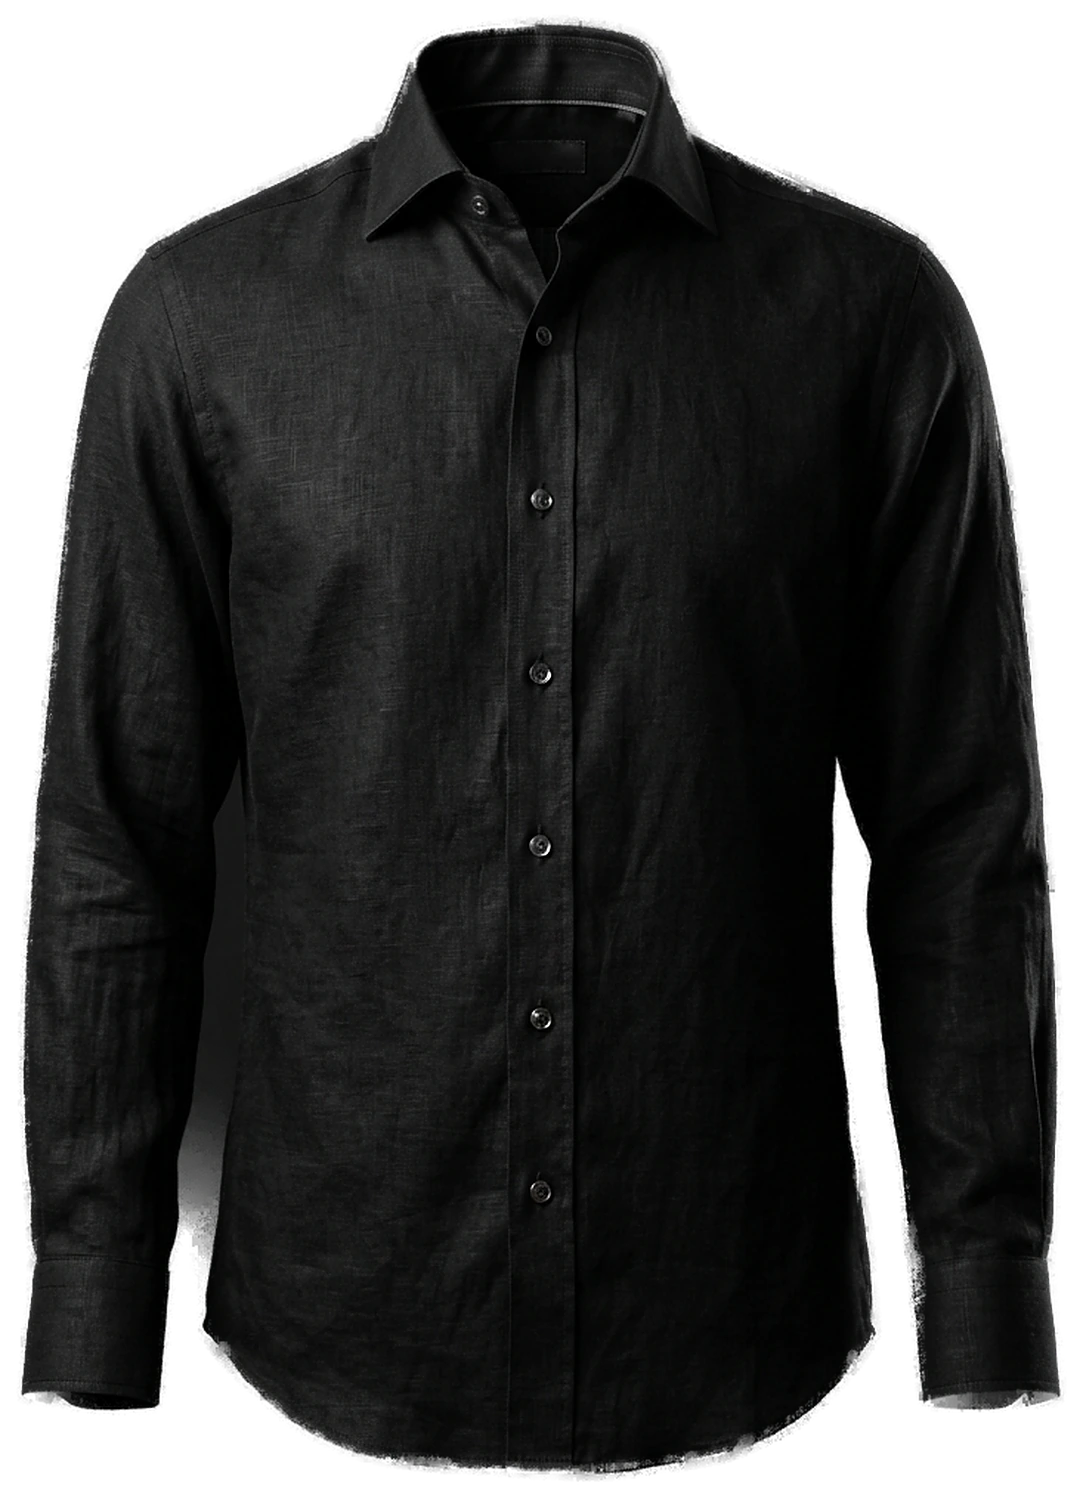
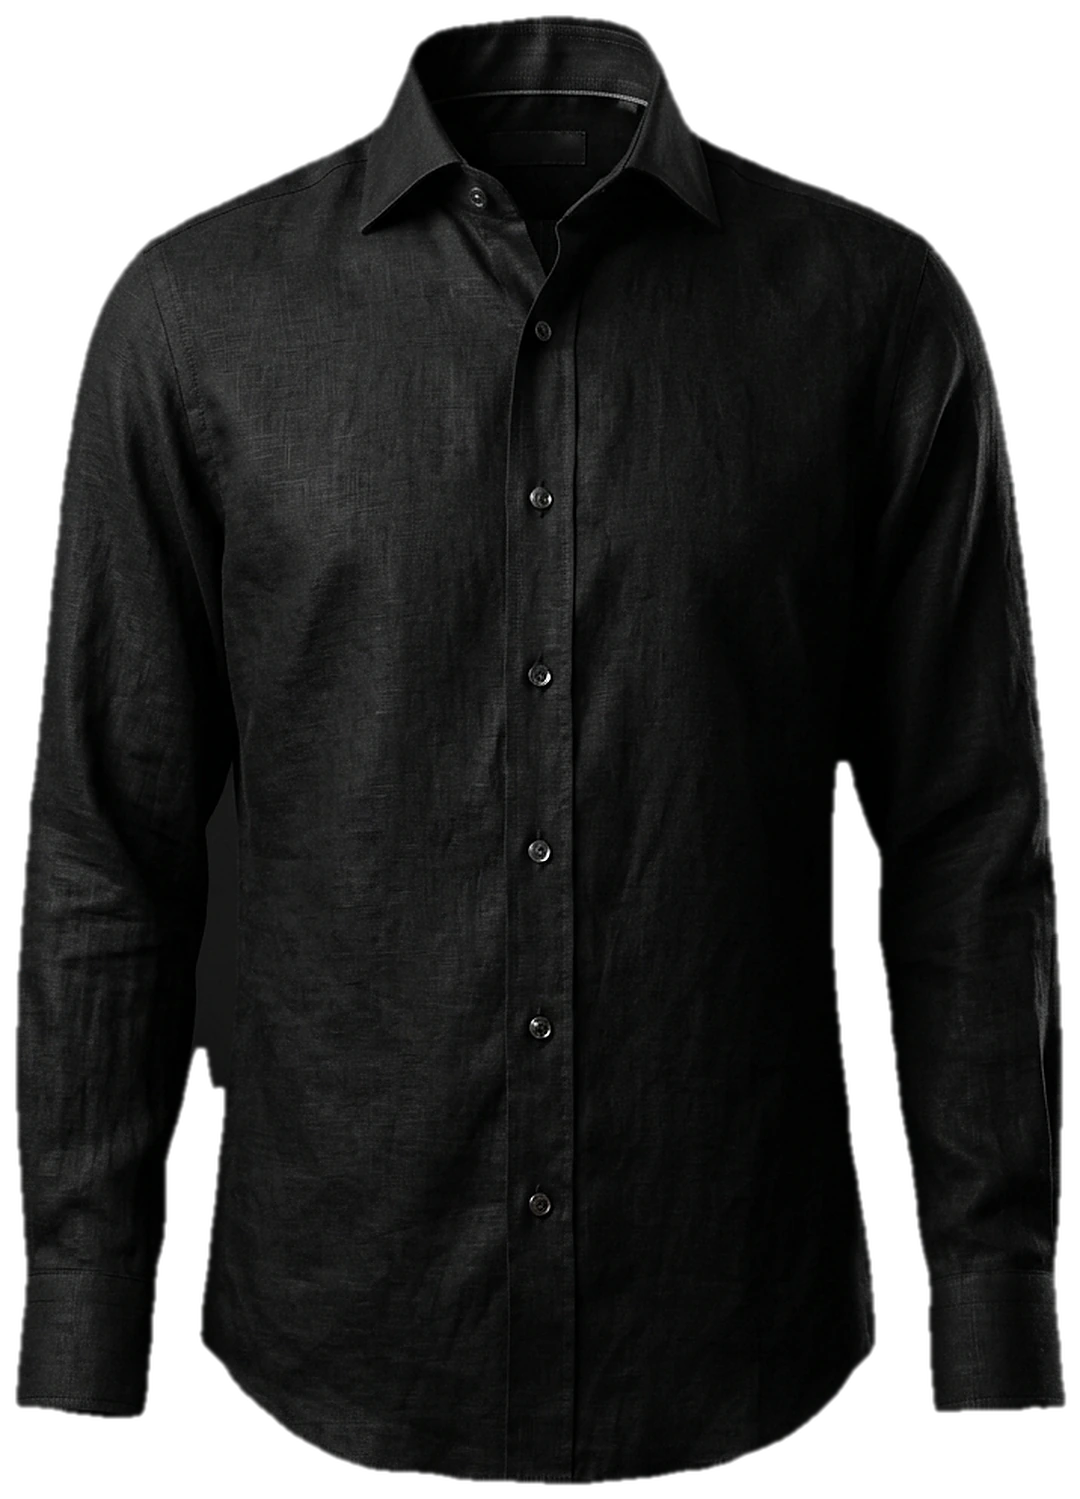
feat(v33): badge clearance in /coleccion, above-the-fold mobile PDP, adaptive Liquid Glass controls, halo-free shirt alpha, and full-bleed rounded-3xl editorial frames for collars & 3/4 cuffs

diff --git a/src/components/StudioShirtStage.tsx b/src/components/StudioShirtStage.tsx
@@ -195,7 +195,7 @@ export function StudioShirtStage({
   const show3DViewer = is3DActive && !webglFailed;
 
   return (
-    <div className="relative flex h-[360px] w-full items-center justify-center overflow-hidden rounded-2xl bg-transparent sm:h-[400px] lg:h-full">
+    <div className="relative flex h-[360px] w-full items-center justify-center bg-transparent sm:h-[400px] lg:h-full">
       {/* Discreet corner 3D toggle button for Step 1 & Step 4 */}
       {(step === 1 || step === 4) && !webglFailed && (
         <button
@@ -256,7 +256,7 @@ export function StudioShirtStage({
           </motion.div>
         )}
 
-        {/* STEP 2: Full-bleed Macro Collar Studio Photograph with Horizontal Swipe & Side Arrows */}
+        {/* STEP 2: Full-bleed Studio Editorial Collar Frame (rounded-3xl, object-cover, adaptive Liquid Glass controls) */}
         {step === 2 && (
           <motion.div
             key="stage-collar-macro"
@@ -274,23 +274,23 @@ export function StudioShirtStage({
                 handleCollarSwipe(-1);
               }
             }}
-            className="relative flex h-full w-full cursor-grab touch-pan-y items-center justify-center overflow-hidden rounded-2xl active:cursor-grabbing"
+            className="relative flex h-full w-full cursor-grab touch-pan-y items-center justify-center overflow-hidden rounded-3xl shadow-[0_18px_48px_rgba(17,17,19,0.08)] active:cursor-grabbing dark:shadow-[0_24px_60px_rgba(0,0,0,0.45)]"
           >
             <AnimatePresence mode="sync">
               <motion.img
                 key={collar}
                 src={collarMeta.macroImage}
-                alt={`Macro real Cuello ${collar}`}
+                alt={`Macro editorial Cuello ${collar}`}
                 draggable={false}
-                initial={isMotionPaused ? false : { opacity: 0, scale: 0.98 }}
+                initial={isMotionPaused ? false : { opacity: 0, scale: 1.03 }}
                 animate={{ opacity: 1, scale: 1 }}
                 exit={isMotionPaused ? undefined : { opacity: 0 }}
-                transition={{ duration: 0.3, ease: [0.22, 1, 0.36, 1] }}
-                className="pointer-events-none absolute inset-0 h-full w-full object-contain px-2 pt-2 pb-12 drop-shadow-[0_18px_28px_rgba(17,17,19,0.2)] select-none dark:drop-shadow-[0_22px_34px_rgba(0,0,0,0.62)]"
+                transition={{ duration: 0.32, ease: [0.22, 1, 0.36, 1] }}
+                className="pointer-events-none absolute inset-0 h-full w-full object-cover object-center select-none"
               />
             </AnimatePresence>
 
-            {/* Discreet Previous / Next Collar Arrows (Dark Frosted for crisp contrast in Light & Dark modes) */}
+            {/* Discreet Previous / Next Collar Arrows (Adaptive Liquid Glass) */}
             {onCollarChange && (
               <>
                 <button
@@ -298,7 +298,7 @@ export function StudioShirtStage({
                   onPointerDown={(e) => e.stopPropagation()}
                   onClick={() => handleCollarSwipe(-1)}
                   aria-label="Cuello anterior"
-                  className="cursor-pointer absolute top-1/2 left-2.5 z-20 inline-flex h-11 w-11 -translate-y-1/2 items-center justify-center rounded-full border border-white/15 bg-[#111113]/85 text-white shadow-lg backdrop-blur-md transition-transform hover:scale-105 active:scale-95 sm:left-3 sm:h-10 sm:w-10"
+                  className="cursor-pointer absolute top-1/2 left-2.5 z-20 inline-flex h-11 w-11 -translate-y-1/2 items-center justify-center rounded-full border border-black/10 bg-white/75 text-[#111113] shadow-sm backdrop-blur-md transition-transform hover:scale-105 active:scale-95 sm:left-3 sm:h-10 sm:w-10 dark:border-white/15 dark:bg-[#111113]/75 dark:text-white"
                 >
                   <ChevronLeft className="h-5 w-5" aria-hidden="true" />
                 </button>
@@ -307,28 +307,31 @@ export function StudioShirtStage({
                   onPointerDown={(e) => e.stopPropagation()}
                   onClick={() => handleCollarSwipe(1)}
                   aria-label="Siguiente cuello"
-                  className="cursor-pointer absolute top-1/2 right-2.5 z-20 inline-flex h-11 w-11 -translate-y-1/2 items-center justify-center rounded-full border border-white/15 bg-[#111113]/85 text-white shadow-lg backdrop-blur-md transition-transform hover:scale-105 active:scale-95 sm:right-3 sm:h-10 sm:w-10"
+                  className="cursor-pointer absolute top-1/2 right-2.5 z-20 inline-flex h-11 w-11 -translate-y-1/2 items-center justify-center rounded-full border border-black/10 bg-white/75 text-[#111113] shadow-sm backdrop-blur-md transition-transform hover:scale-105 active:scale-95 sm:right-3 sm:h-10 sm:w-10 dark:border-white/15 dark:bg-[#111113]/75 dark:text-white"
                 >
                   <ChevronRight className="h-5 w-5" aria-hidden="true" />
                 </button>
               </>
             )}
 
-            {/* Floating Collar Spec Pill (Dark Frosted) */}
-            <div className="pointer-events-none absolute bottom-3 left-1/2 z-20 flex -translate-x-1/2 items-center gap-2.5 whitespace-nowrap rounded-full border border-white/15 bg-[#111113]/85 px-4 py-1.5 text-xs text-white shadow-lg backdrop-blur-md sm:bottom-4 sm:py-2">
-              <span className="h-1.5 w-1.5 rounded-full bg-white" />
+            {/* Floating Collar Spec Pill (Adaptive Liquid Glass) */}
+            <div className="pointer-events-none absolute bottom-3 left-1/2 z-20 flex -translate-x-1/2 items-center gap-2.5 whitespace-nowrap rounded-full border border-black/10 bg-white/75 px-4 py-1.5 text-xs text-[#111113] shadow-sm backdrop-blur-md sm:bottom-4 sm:py-2 dark:border-white/15 dark:bg-[#111113]/75 dark:text-white">
+              <span className="h-1.5 w-1.5 rounded-full bg-[#16233B] dark:bg-white" />
               <span className="font-semibold">Cuello {collar}</span>
-              <span aria-hidden="true" className="hidden text-white/35 sm:inline">
+              <span
+                aria-hidden="true"
+                className="hidden text-black/25 sm:inline dark:text-white/30"
+              >
                 ·
               </span>
-              <span className="hidden text-white/80 sm:inline">
+              <span className="hidden text-[#111113]/75 sm:inline dark:text-white/80">
                 {collarMeta.detail}
               </span>
             </div>
           </motion.div>
         )}
 
-        {/* STEP 3: Transparent Straight-On Cuff / Button Cutout with Horizontal Swipe & Dark Frosted Side Arrows */}
+        {/* STEP 3: Full-bleed Studio Editorial 3/4 Cuff & Button Frame (rounded-3xl, object-cover, adaptive Liquid Glass controls) */}
         {step === 3 && (
           <motion.div
             key="stage-button-macro"
@@ -346,23 +349,23 @@ export function StudioShirtStage({
                 handleButtonSwipe(-1);
               }
             }}
-            className="relative flex h-full w-full cursor-grab touch-pan-y items-center justify-center overflow-hidden rounded-2xl active:cursor-grabbing"
+            className="relative flex h-full w-full cursor-grab touch-pan-y items-center justify-center overflow-hidden rounded-3xl shadow-[0_18px_48px_rgba(17,17,19,0.08)] active:cursor-grabbing dark:shadow-[0_24px_60px_rgba(0,0,0,0.45)]"
           >
             <AnimatePresence mode="sync">
               <motion.img
                 key={selectedButton.id}
                 src={selectedButton.macroImage}
-                alt={`Macro real Botón ${selectedButton.label}`}
+                alt={`Macro editorial Botón ${selectedButton.label}`}
                 draggable={false}
-                initial={isMotionPaused ? false : { opacity: 0, scale: 0.98 }}
+                initial={isMotionPaused ? false : { opacity: 0, scale: 1.03 }}
                 animate={{ opacity: 1, scale: 1 }}
                 exit={isMotionPaused ? undefined : { opacity: 0 }}
-                transition={{ duration: 0.3, ease: [0.22, 1, 0.36, 1] }}
-                className="pointer-events-none absolute inset-0 h-full w-full object-contain px-4 pt-3 pb-14 drop-shadow-[0_18px_28px_rgba(17,17,19,0.2)] select-none dark:drop-shadow-[0_22px_34px_rgba(0,0,0,0.62)]"
+                transition={{ duration: 0.32, ease: [0.22, 1, 0.36, 1] }}
+                className="pointer-events-none absolute inset-0 h-full w-full object-cover object-center select-none"
               />
             </AnimatePresence>
 
-            {/* Discreet Previous / Next Button Arrows (Dark Frosted) */}
+            {/* Discreet Previous / Next Button Arrows (Adaptive Liquid Glass) */}
             {onButtonChange && (
               <>
                 <button
@@ -370,7 +373,7 @@ export function StudioShirtStage({
                   onPointerDown={(e) => e.stopPropagation()}
                   onClick={() => handleButtonSwipe(-1)}
                   aria-label="Botón anterior"
-                  className="cursor-pointer absolute top-1/2 left-2.5 z-20 inline-flex h-11 w-11 -translate-y-1/2 items-center justify-center rounded-full border border-white/15 bg-[#111113]/85 text-white shadow-lg backdrop-blur-md transition-transform hover:scale-105 active:scale-95 sm:left-3 sm:h-10 sm:w-10"
+                  className="cursor-pointer absolute top-1/2 left-2.5 z-20 inline-flex h-11 w-11 -translate-y-1/2 items-center justify-center rounded-full border border-black/10 bg-white/75 text-[#111113] shadow-sm backdrop-blur-md transition-transform hover:scale-105 active:scale-95 sm:left-3 sm:h-10 sm:w-10 dark:border-white/15 dark:bg-[#111113]/75 dark:text-white"
                 >
                   <ChevronLeft className="h-5 w-5" aria-hidden="true" />
                 </button>
@@ -379,15 +382,15 @@ export function StudioShirtStage({
                   onPointerDown={(e) => e.stopPropagation()}
                   onClick={() => handleButtonSwipe(1)}
                   aria-label="Siguiente botón"
-                  className="cursor-pointer absolute top-1/2 right-2.5 z-20 inline-flex h-11 w-11 -translate-y-1/2 items-center justify-center rounded-full border border-white/15 bg-[#111113]/85 text-white shadow-lg backdrop-blur-md transition-transform hover:scale-105 active:scale-95 sm:right-3 sm:h-10 sm:w-10"
+                  className="cursor-pointer absolute top-1/2 right-2.5 z-20 inline-flex h-11 w-11 -translate-y-1/2 items-center justify-center rounded-full border border-black/10 bg-white/75 text-[#111113] shadow-sm backdrop-blur-md transition-transform hover:scale-105 active:scale-95 sm:right-3 sm:h-10 sm:w-10 dark:border-white/15 dark:bg-[#111113]/75 dark:text-white"
                 >
                   <ChevronRight className="h-5 w-5" aria-hidden="true" />
                 </button>
               </>
             )}
 
-            {/* Floating Button Detail Pill (Dark Frosted) */}
-            <div className="pointer-events-none absolute bottom-3 left-1/2 z-20 flex -translate-x-1/2 items-center gap-2.5 whitespace-nowrap rounded-full border border-white/15 bg-[#111113]/85 px-4 py-1.5 text-xs text-white shadow-lg backdrop-blur-md sm:bottom-4 sm:py-2">
+            {/* Floating Button Detail Pill (Adaptive Liquid Glass) */}
+            <div className="pointer-events-none absolute bottom-3 left-1/2 z-20 flex -translate-x-1/2 items-center gap-2.5 whitespace-nowrap rounded-full border border-black/10 bg-white/75 px-4 py-1.5 text-xs text-[#111113] shadow-sm backdrop-blur-md sm:bottom-4 sm:py-2 dark:border-white/15 dark:bg-[#111113]/75 dark:text-white">
               <span
                 aria-hidden="true"
                 className="h-3.5 w-3.5 shrink-0 rounded-full border shadow-sm"

diff --git a/src/components/ProductDetailClient.tsx b/src/components/ProductDetailClient.tsx
@@ -107,10 +107,10 @@ export function ProductDetailClient({ shirt }: { shirt: CatalogShirt }) {
       </nav>
 
       {/* 2-Column Clean PDP Layout */}
-      <div className="mt-6 grid grid-cols-1 items-start gap-10 lg:grid-cols-12 lg:gap-12">
-        {/* LEFT COLUMN: Large Product Image + Vista Prenda / Muestra de Tela Toggle */}
+      <div className="mt-4 grid grid-cols-1 items-start gap-5 lg:mt-6 lg:grid-cols-12 lg:gap-12">
+        {/* LEFT COLUMN: Compact Mobile Photo Stage (keeps CTA above the fold on iPhone) + Desktop 4:5 Stage */}
         <div className="flex flex-col items-center lg:col-span-6">
-          <div className="liquid-glass relative flex aspect-[3/4] max-h-[520px] w-full items-center justify-center overflow-hidden rounded-2xl">
+          <div className="liquid-glass relative flex h-[38svh] min-h-[250px] max-h-[340px] w-full items-center justify-center overflow-hidden rounded-2xl lg:h-auto lg:min-h-0 lg:max-h-[540px] lg:aspect-[4/5]">
             <AnimatePresence mode="wait">
               {viewMode === "prenda" ? (
                 <motion.div
@@ -119,7 +119,7 @@ export function ProductDetailClient({ shirt }: { shirt: CatalogShirt }) {
                   animate={{ opacity: 1, scale: 1 }}
                   exit={isMotionPaused ? undefined : { opacity: 0 }}
                   transition={{ duration: 0.3 }}
-                  className="relative flex h-full w-full items-center justify-center p-6 pb-9"
+                  className="relative flex h-full w-full items-center justify-center p-4 pb-6 lg:p-6 lg:pb-9"
                 >
                   <div className="relative flex h-full w-full items-center justify-center">
                     <picture className="flex h-full w-full items-center justify-center">
@@ -139,7 +139,7 @@ export function ProductDetailClient({ shirt }: { shirt: CatalogShirt }) {
                   </div>
                   <span
                     aria-hidden="true"
-                    className="pointer-events-none absolute bottom-4 left-1/2 h-4 w-44 -translate-x-1/2 rounded-full bg-[#111113] opacity-20 blur-xl dark:bg-black dark:opacity-55"
+                    className="pointer-events-none absolute bottom-3 left-1/2 h-4 w-40 -translate-x-1/2 rounded-full bg-[#111113] opacity-20 blur-xl lg:bottom-4 lg:w-44 dark:bg-black dark:opacity-55"
                   />
                 </motion.div>
               ) : (
@@ -161,14 +161,14 @@ export function ProductDetailClient({ shirt }: { shirt: CatalogShirt }) {
           <div
             role="radiogroup"
             aria-label="Vista del producto"
-            className="liquid-glass mt-4 inline-flex items-center rounded-full p-1"
+            className="liquid-glass mt-2.5 inline-flex items-center rounded-full p-1 lg:mt-4"
           >
             <button
               type="button"
               role="radio"
               aria-checked={viewMode === "prenda"}
               onClick={() => setViewMode("prenda")}
-              className={`cursor-pointer inline-flex min-h-[38px] items-center gap-1.5 rounded-full px-4 text-xs font-medium transition-colors ${
+              className={`cursor-pointer inline-flex min-h-[36px] items-center gap-1.5 rounded-full px-3.5 text-xs font-medium transition-colors lg:min-h-[38px] lg:px-4 ${
                 viewMode === "prenda"
                   ? "bg-[#16233B] text-white dark:bg-white dark:text-[#0B0B0E]"
                   : "text-[#111113]/70 hover:text-[#111113] dark:text-white/70 dark:hover:text-white"
@@ -182,7 +182,7 @@ export function ProductDetailClient({ shirt }: { shirt: CatalogShirt }) {
               role="radio"
               aria-checked={viewMode === "tejido"}
               onClick={() => setViewMode("tejido")}
-              className={`cursor-pointer inline-flex min-h-[38px] items-center gap-1.5 rounded-full px-4 text-xs font-medium transition-colors ${
+              className={`cursor-pointer inline-flex min-h-[36px] items-center gap-1.5 rounded-full px-3.5 text-xs font-medium transition-colors lg:min-h-[38px] lg:px-4 ${
                 viewMode === "tejido"
                   ? "bg-[#16233B] text-white dark:bg-white dark:text-[#0B0B0E]"
                   : "text-[#111113]/70 hover:text-[#111113] dark:text-white/70 dark:hover:text-white"
@@ -196,7 +196,7 @@ export function ProductDetailClient({ shirt }: { shirt: CatalogShirt }) {
 
         {/* RIGHT COLUMN: Details, Commercial Size, Add to Cart, Bespoke Shortcut */}
         <div className="flex flex-col lg:col-span-6 lg:pt-2">
-          <div className="flex flex-wrap items-center gap-2.5 text-xs text-muted">
+          <div className="flex flex-wrap items-center gap-2 text-xs text-muted lg:gap-2.5">
             <span className="ds-caption uppercase">{shirt.fabricLabel}</span>
             <span aria-hidden="true" className="opacity-35">
               ·
@@ -204,10 +204,10 @@ export function ProductDetailClient({ shirt }: { shirt: CatalogShirt }) {
             <span className="ds-mono text-[11px]">{shirt.refCode}</span>
           </div>
 
-          <h1 className="ds-h1-page mt-2.5">{shirt.name}</h1>
+          <h1 className="ds-h1-page mt-1.5 lg:mt-2.5">{shirt.name}</h1>
 
           {/* Price + 3 Installments */}
-          <div className="mt-4 flex items-baseline gap-3">
+          <div className="mt-2.5 flex items-baseline gap-3 lg:mt-4">
             <span className="font-sans text-2xl font-semibold text-[#111113] tabular-nums dark:text-white">
               {formatArsClean(shirt.priceArs)}
             </span>
@@ -217,17 +217,17 @@ export function ProductDetailClient({ shirt }: { shirt: CatalogShirt }) {
               </span>
             )}
           </div>
-          <p className="mt-1 text-xs font-medium text-[#16233B] dark:text-gold">
+          <p className="mt-0.5 text-xs font-medium text-[#16233B] lg:mt-1 dark:text-gold">
             3 cuotas sin interés de {formatArsClean(installmentArs)}
           </p>
 
           {/* Editorial Description */}
-          <p className="ds-body mt-5 text-muted">
+          <p className="ds-body mt-3 hidden text-muted sm:block lg:mt-5">
             {getEditorialDescription(shirt)}
           </p>
 
           {/* Commercial Size Selector — 1 Single Row */}
-          <div className="mt-7">
+          <div className="mt-4 lg:mt-7">
             <div className="flex items-center justify-between">
               <span className="ds-caption font-semibold text-[#111113] uppercase dark:text-white">
                 Talle comercial
@@ -242,7 +242,7 @@ export function ProductDetailClient({ shirt }: { shirt: CatalogShirt }) {
             </div>
 
             <div
-              className={`mt-2.5 grid gap-2 ${
+              className={`mt-2 grid gap-2 lg:mt-2.5 ${
                 shirt.sizeType === "alpha" ? "grid-cols-4" : "grid-cols-5"
               }`}
             >
@@ -268,7 +268,7 @@ export function ProductDetailClient({ shirt }: { shirt: CatalogShirt }) {
           </div>
 
           {/* Primary CTA: Agregar al carrito */}
-          <div className="mt-7 space-y-3">
+          <div className="mt-4 space-y-2.5 lg:mt-7 lg:space-y-3">
             <button
               id="pdp-add-to-cart"
               type="button"

diff --git a/src/components/ShirtBuilderSection.tsx b/src/components/ShirtBuilderSection.tsx
@@ -337,8 +337,8 @@ export function ShirtBuilderSection() {
           </div>
         </div>
 
-        {/* CENTER STAGE: Floating Studio Photo / 3D / Full-Bleed Collar & Button Macros */}
-        <div className="relative flex h-[360px] w-full items-center justify-center overflow-hidden rounded-2xl sm:h-[400px] lg:h-auto lg:min-h-0 lg:flex-1">
+        {/* CENTER STAGE: Borderless Floating Shirt (Steps 1 & 4) + Editorial Studio Frame (Steps 2 & 3) */}
+        <div className="relative flex h-[360px] w-full items-center justify-center sm:h-[400px] lg:h-auto lg:min-h-0 lg:flex-1">
           <StudioShirtStage
             shirt={selectedShirt}
             collar={collar}

diff --git a/src/components/CatalogSection.tsx b/src/components/CatalogSection.tsx
@@ -109,7 +109,7 @@ function MinimalShirtCard({
           }`}
         >
           {visualMode === "camisa" ? (
-            <div className="relative flex h-full w-full items-center justify-center p-4 pb-6">
+            <div className="relative flex h-full w-full items-center justify-center px-4 pt-9 pb-5">
               <div
                 className={`relative flex h-full w-full items-center justify-center ${
                   isMotionPaused
